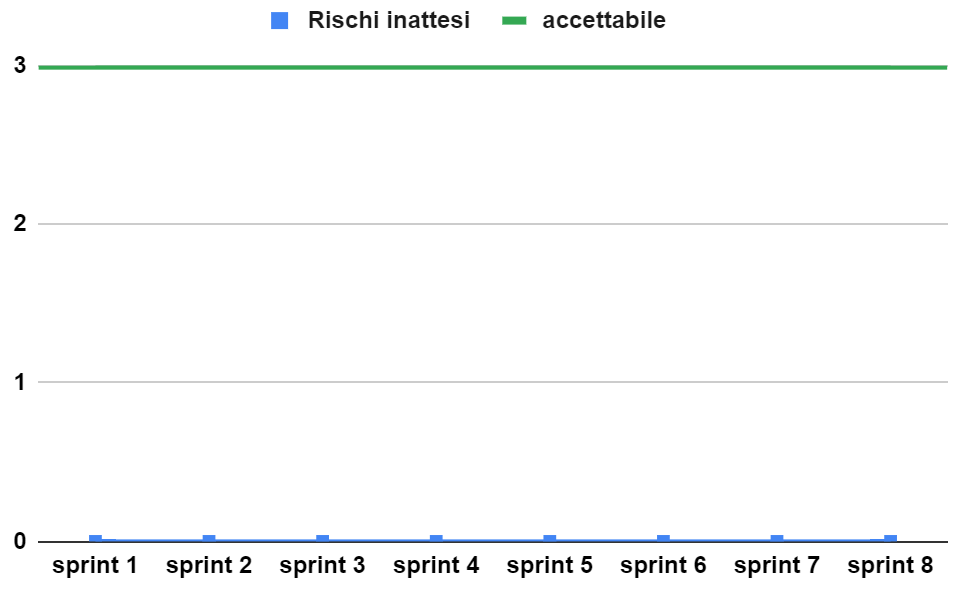
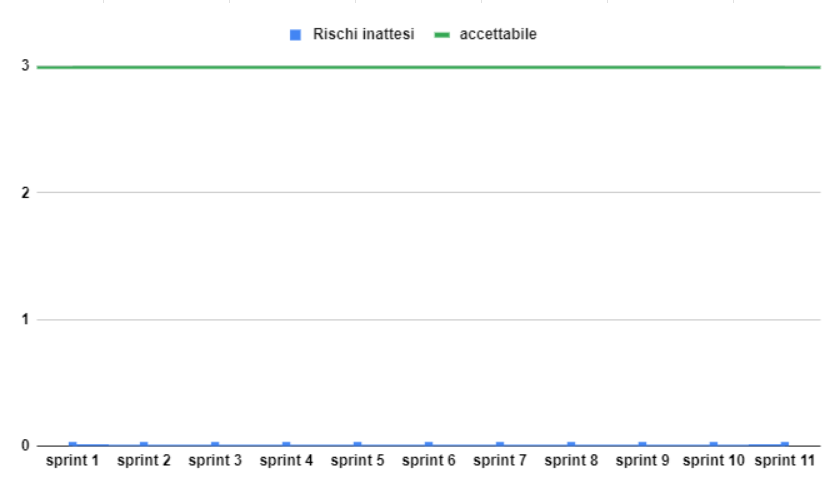
cc-238-aggiornamento-cruscotto (#279)

diff --git a/3-PB/Documentazione_esterna/Piano_di_qualifica/cruscotto.tex b/3-PB/Documentazione_esterna/Piano_di_qualifica/cruscotto.tex
@@ -10,6 +10,7 @@
 Analizzando i valori riportati nel grafico, è riscontrabile una difficoltà persistente nel produrre preventivi orari vicini al consuntivato.\\
 In particolare, durante il periodo RTB, vengono registrati dei valori di poco inferiori all'accettabile nel terzo e quarto sprint e un valore di poco superiore nel quinto sprint. Il motivo del numero inferiore di ore produttive è stato causato da modifiche a documenti non previsti.\\
 Valori di molto insufficienti sono stati registrati nel settimo e ottavo sprint. In questi casi, l'incompleta attività di progettazione è andata inevitabilmente ad impattare sulle task relative alla programmazione, rinviandone l'inizio dei lavori ai periodi successivi.
+Dal nono sprint quindi, si registra un significativo aumento percentuale delle ore lavorative, superando le difficoltà riscontrate nei periodi precedenti. In particolare, nel decimo sprint si osserva un incremento del lavoro al di sopra delle aspettative, determinato dalla determinazione del gruppo nel completare l'MVP entro il 26 marzo. Per l'ultimo sprint, le ore di lavoro rientrano nei parametri previsti, grazie alla riduzione delle task pendenti in vista della conclusione del progetto.
 
 \section{Varianza di Budget}
 \begin{figure}[H]
@@ -20,6 +21,7 @@ Valori di molto insufficienti sono stati registrati nel settimo e ottavo sprint.
 \subsection{Analisi}
 Dall'analisi del grafico è immediato osservare che i valori di varianza di budget sono sempre rimasti all'interno della soglia di accettabilità durante tutto il periodo RTB.\\
 Il primo dato negativo e inferiore alla sogli di accettabilità è stato registrato durante l'ottavo sprint. In quel caso, come già analizzato con la Varianza dell'impegno orario, il mancato inizio delle attività di programmazione ha impattato sui costi, facendo sì che fosse di molto inferiore al preventivato.
+Al contrario, un valore quasi superiore alla soglia accettabile lo si ha nel decimo sprint, in corrispondenza dell'aumento delle ore di programmazione e progettazione al fine di terminare l'MVP.
 
 \section{Estimate to Complete e Estimate at Completion}
 \begin{figure}[H]
@@ -31,7 +33,7 @@ Il primo dato negativo e inferiore alla sogli di accettabilità è stato registr
 Dopo un ottimo inizio nei primi due sprint, è possibile notare un calo dei lavori nel terzo sprint, e un altro leggero rallentamento nel quinto. L'Estimate to Complete al terzo e al quinto sprint è diminuito in modo meno marcato rispetto lo sprint precedente. Inoltre, l'Estimate at Completion ha superato il Budget at Completion.\\
 Questo è causato dal mancato raggiungimento di tutti gli obiettivi fissati dalla milestone del terzo sprint.\\
 Il valore dopo il terzo sprint, nonostante il brusco rallentamento dell'ottavo periodo di osservazione, è comunque rimasto stabile ad un valore poco al di sopra del Budget at Completion.
-
+Nei successivi periodi, l'ETC scende costantemente, in particolare dall'ottavo sprint, in cui la diminuzione è maggiore, per l'aumento delle ore produttive e dell'impegno del gruppo.
 \section{Planned Value, Earned Value e Actual Cost}
 \begin{figure}[H]
     \centering
@@ -41,7 +43,8 @@ Il valore dopo il terzo sprint, nonostante il brusco rallentamento dell'ottavo p
 \subsection{Analisi}
 Dopo un ottimo inizio nei primi due sprint, come in altre metriche è possibile notare un calo dei lavori nel terzo. Se fino al secondo sprint i valori di Planned Value, Earned Value e Actual Cost erano quasi identici, a terzo sprint completato è riscontrabile dal cruscotto il "distaccamento" dei tre valori.\\
 Questo è causato dal mancato raggiungimento di tutti gli obiettivi fissati dalla milestone del terzo sprint, che hanno portato l'Earned Value ad essere minore del Planned.\\
-Dopo un andamento generalmente positivo tra il quarto e il settimo sprint ad avvicinare i valori delle tre metriche, Planned Value, Earned Value e Actual Cost hanno subito un ulteriore distaccamento durante l'ottavo periodo di osservazione. Questo è stato causato dall'elevata Varianza di budget e di impegno orario, già precedentemente analizzata.
+Dopo un andamento generalmente positivo tra il quarto e il settimo sprint ad avvicinare i valori delle tre metriche, Planned Value, Earned Value e Actual Cost hanno subito un ulteriore distacco durante l'ottavo periodo di osservazione. Questo è stato causato dall'elevata Varianza di budget e di impegno orario, già precedentemente analizzata.
+L'ottavo sprint, per i problemi citati in precedenza, comporta una diminuzione dell'Earned Value, che tuttavia si allinea con il Planned Value negli sprint successivi, una volta superate le prolematiche.
 
 \section{Schedule Variance e Cost Variance}
 \begin{figure}[H]
@@ -51,7 +54,8 @@ Dopo un andamento generalmente positivo tra il quarto e il settimo sprint ad avv
 \end{figure}
 \subsection{Analisi}
 Dopo un ottimo inizio nei primi due sprint, come in altre metriche è possibile notare un calo dei lavori nel terzo. Se fino al secondo sprint i valori di Schedule e Cost Variance mostravano un anticipo sui lavori rispetto il costo preventivato per eseguirli, il mancato raggiungimento di tutti gli obiettivi fissati dalla milestone del terzo sprint ha portato a dei valori negativi. Dal quarto sprint in poi i valori sono aumentati riportandosi e stabilendosi ad un livello di poco inferiore all'accettabile. Nel quinto sprint è riscontrabile un rallentamento dovuto al colloquio svolto con il committente, nel quale è emersa la necessità di apportare delle modifiche non previste a dei documenti.\\
-Un ulteriore pesante rallentamento è registrato nell'ottavo sprint, che impatta nelle metriche in questione come in tutte le altre già studiate.
+Un ulteriore pesante rallentamento è registrato nell'ottavo sprint, che impatta nelle metriche in questione come in tutte le altre già studiate. 
+A partire dal nono sprint, Schedule Variance e Cost Variance ritornano nella soglia accettabile, con un lieve aumento nello sprint dieci per via dell'aumento della produttività data dalla necessità di terminare l'MVP.
 
 \section{Schedule Performance Index e Cost Performance Index}
 \begin{figure}[H]
@@ -61,6 +65,7 @@ Un ulteriore pesante rallentamento è registrato nell'ottavo sprint, che impatta
 \end{figure}
 \subsection{Analisi}
 Similmente a quanto riscontrabile dall'analisi dei valori di Schedule e Cost Variance, i valori di Schedule Performance Index e Cost Performance Index sono scesi sotto l'1 con la fine dello sprint 3. I valori comunque rimangono ampiamente all'interno dei valori accettabili stabilendosi sullo 0,97 fino al settimo sprint, per poi peggiorare leggermente nel periodo successivo.
+Tuttavia, i valori in seguito all'ottavo sprint, tornano ad essere prossimi ad 1.
 
 \section{Misure di mitigazione insufficienti}
 \begin{figure}[H]
@@ -69,7 +74,7 @@ Similmente a quanto riscontrabile dall'analisi dei valori di Schedule e Cost Var
     \caption{Progressione occorrenza di rischi con misure mitigative insufficienti}
 \end{figure}
 \subsection{Analisi}
-Come riscontrabile dai valori riportati dal grafico, l'ampia analisi dei rischi effettuata a inizio progetto ha portato alla definizione di misure mitigative che hanno sempre avuto efficacia.
+Come riscontrabile dai valori riportati dal grafico, l'ampia analisi dei rischi effettuata a inizio progetto ha portato alla definizione di misure mitigative che hanno sempre avuto efficacia. L'unica eccezione è stata lo sprint 8, durante il quale c'è stato un rallentamento dei lavori a causa della difficoltà nella fase iniziale di progettazione, data dalla novità dell'implementazione dei pattern.
 
 \section{Rischi inattesi}
 \begin{figure}[H]
@@ -139,7 +144,7 @@ Il progetto ha prodotto un Minimum Viable Product, dunque soddisfa tutti i requi
         \includegraphics[width=\textwidth]{GulpeasePdq.png}
         \caption{Gulpease di Piano\_di\_qualifica\_v2.0}
     \end{minipage}
-\end{figure}
+\end{figure} % aggiunta SA e MU
 \begin{figure}[H]
     \centering
     \begin{minipage}[b]{0.45\textwidth}
@@ -154,6 +159,8 @@ Il progetto ha prodotto un Minimum Viable Product, dunque soddisfa tutti i requi
         \caption{Gulpease di Manuale\_utente\_v1.0}
     \end{minipage}
 \end{figure}
+\newpage
+
 \subsection{Analisi}
 Analizzando i valori del cruscotto, è immediato notare che l'indice di ogni verbale è sempre stato superiore alla soglia di accettabilità. È inoltre utile notare che la maggior parte degli indici di Gulpease più bassi sono stati registrati in verbali esterni, mostrando come la natura più discorsiva di tali verbali mette a rischio maggiormente la leggibilità dei documenti.\\
 Nonostante la variabilità dei valori, diminuita sempre più nel corso del progetto, è possibile notare come l'indice di Gulpease sia sempre stato superiore alla soglia di accettabilità per tutti i documenti, dimostrando la buona qualità della documentazione prodotta. 

diff --git a/3-PB/Documentazione_esterna/Piano_di_qualifica/frontespizio.tex b/3-PB/Documentazione_esterna/Piano_di_qualifica/frontespizio.tex
@@ -9,6 +9,6 @@
         \node [draw,white,text=black, below=of uni] (corso1) {\fontsize{28pt}{32pt}\selectfont Corso di Ingegneria};
         \node [yshift=0.75cm,draw,white,text=black, below=of corso1] (corso2) {\fontsize{28pt}{32pt}\selectfont del Software};
         \node [xshift=3.5cm,yshift=7cm,draw,white,text=black] (riunione) at (current page.south){\fontsize{40pt}{48pt}\selectfont Piano di qualifica};
-        \node [draw,white,text=black, below=of riunione] (versione) {\fontsize{28pt}{32pt}\selectfont Versione 1.9};
+        \node [draw,white,text=black, below=of riunione] (versione) {\fontsize{28pt}{32pt}\selectfont Versione 1.10};
     \end{tikzpicture}
 \end{titlepage}

diff --git a/3-PB/Documentazione_esterna/Piano_di_qualifica/log.tex b/3-PB/Documentazione_esterna/Piano_di_qualifica/log.tex
@@ -12,6 +12,8 @@
     \rowcolor{headerrow} \textbf{\textcolor{white}{Versione}} & \textbf{\textcolor{white}{Data}} & \textbf{\textcolor{white}{Autori}} & \textbf{\textcolor{white}{Verificatori}} & \textbf{\textcolor{white}{Descrizione}} \\
     \endhead
     \hline
+    1.10 & 2024/04/12 & Francesco Giacomuzzo & Leonardo Lago & Aggiornamento sezione \ref{sec:cruscotto}.\\
+    \hline
     1.9 & 2024/04/12 & Anna Nordio & Francesco Giacomuzzo & Aggiornamento sezione \ref{sec:cruscotto}.\\
     \hline
     1.8 & 2024/04/10 & Marco Dolzan & Francesco Ferraioli & Aggiornamento sezione \ref{sec:test}.\\
